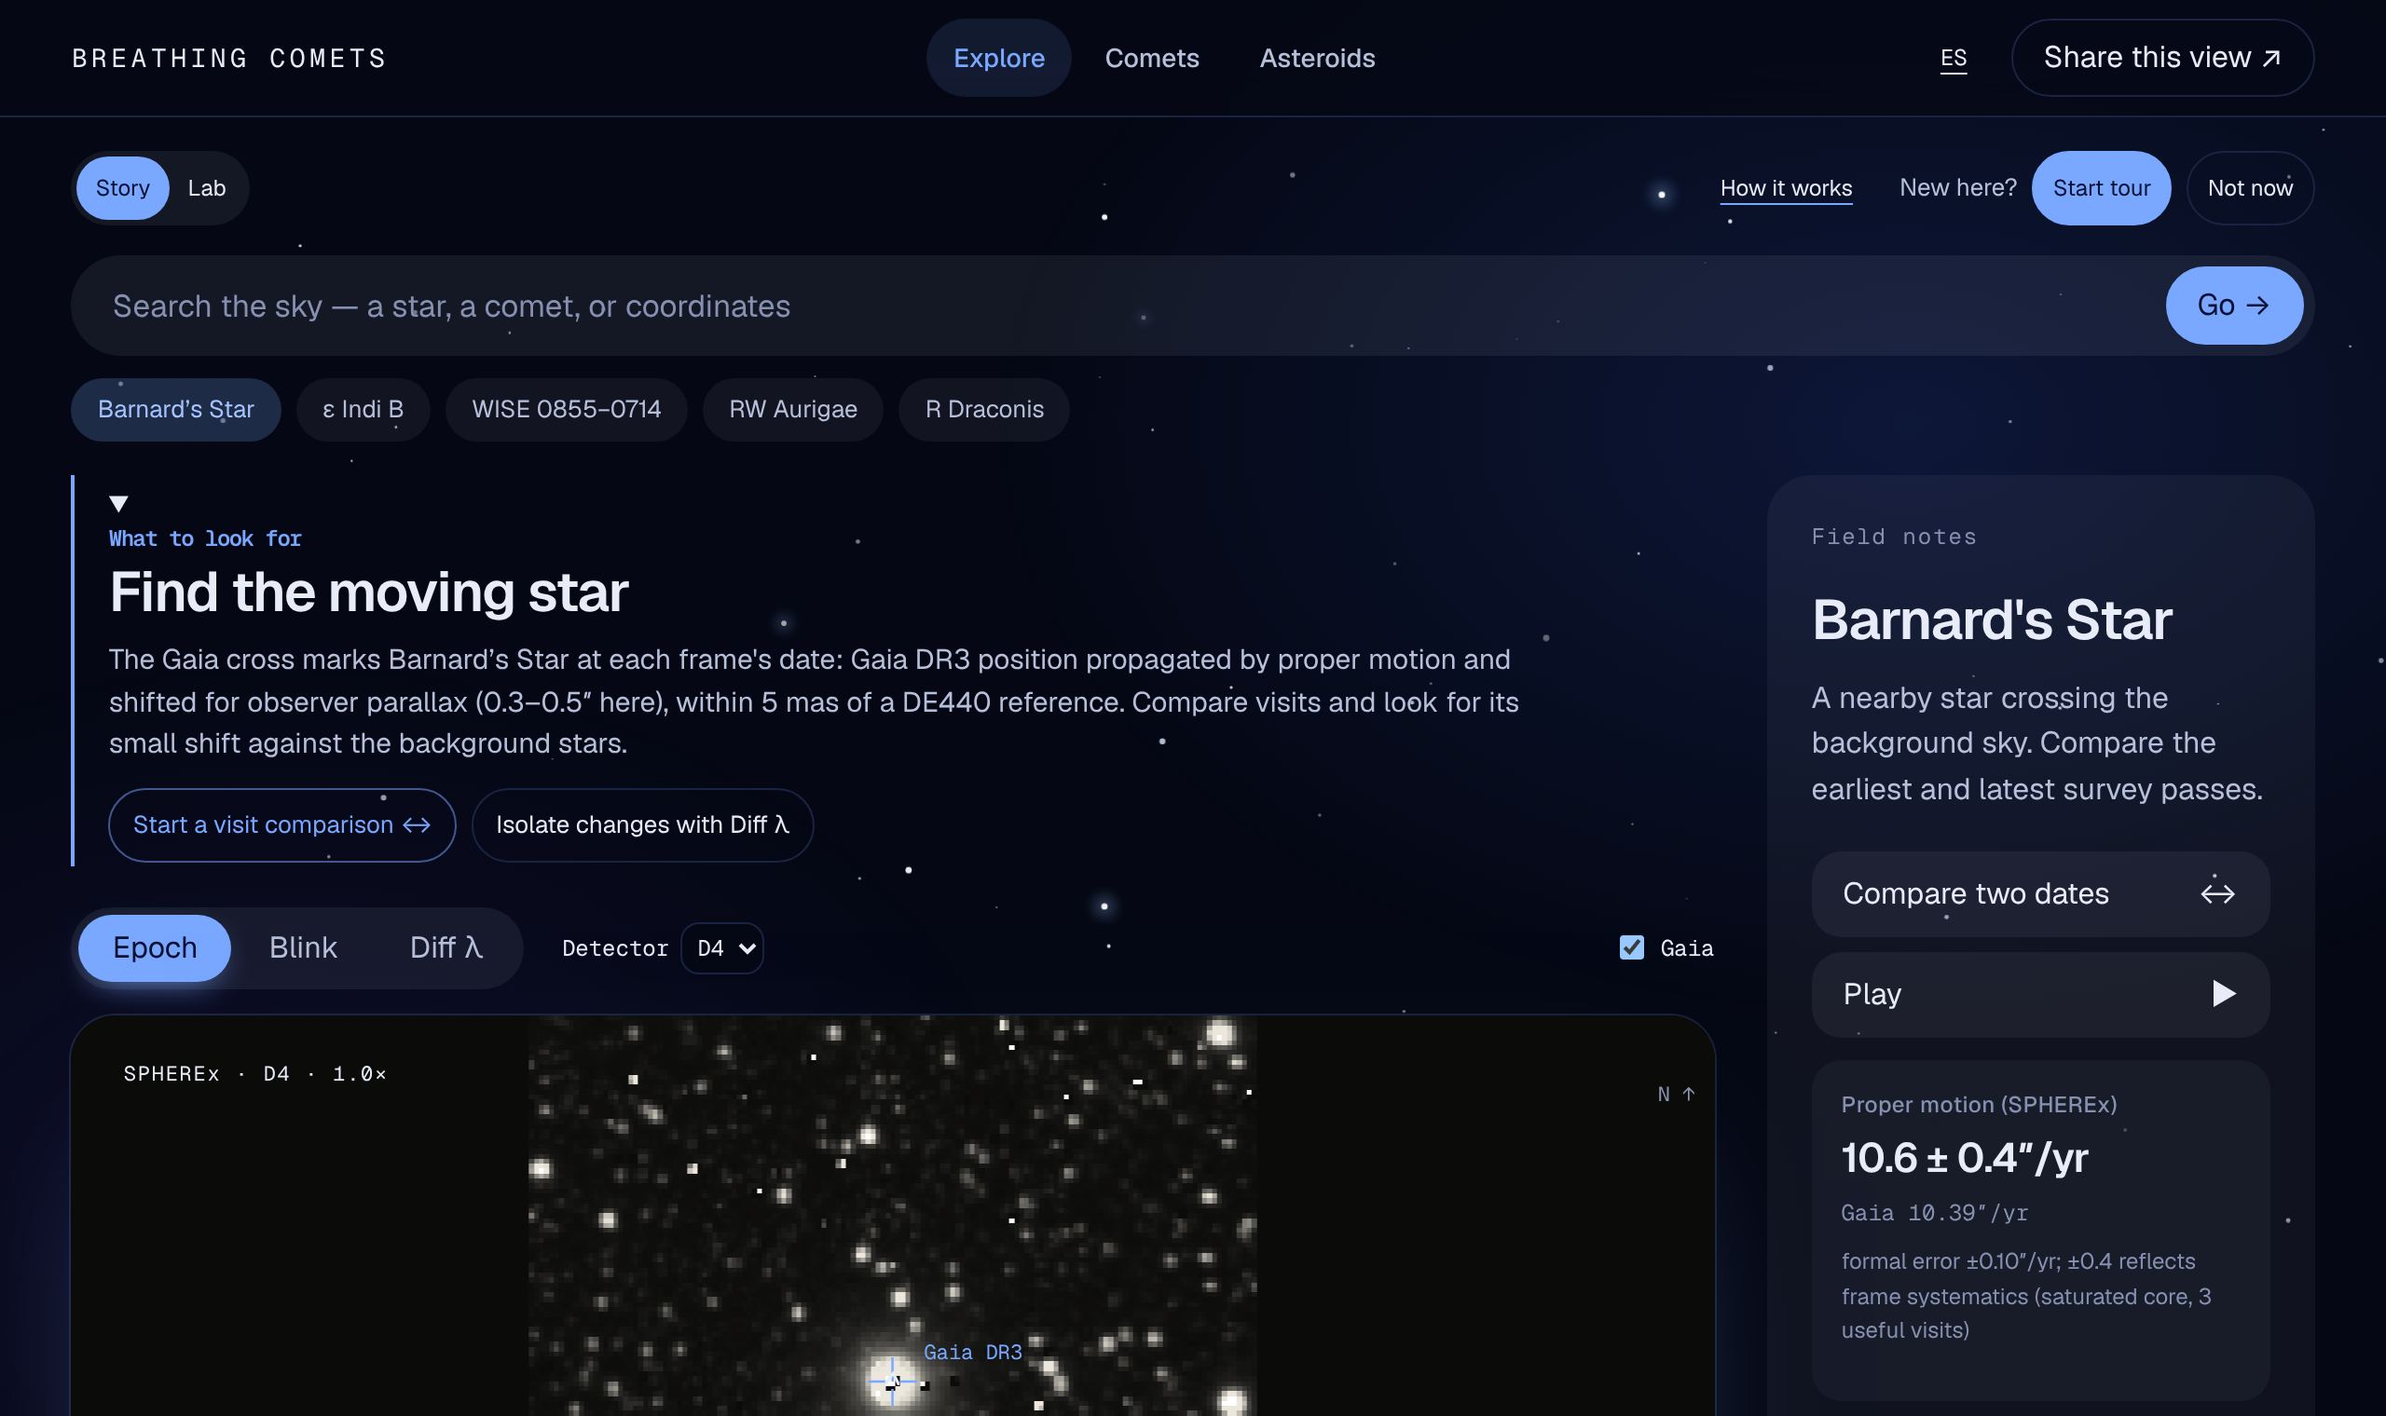
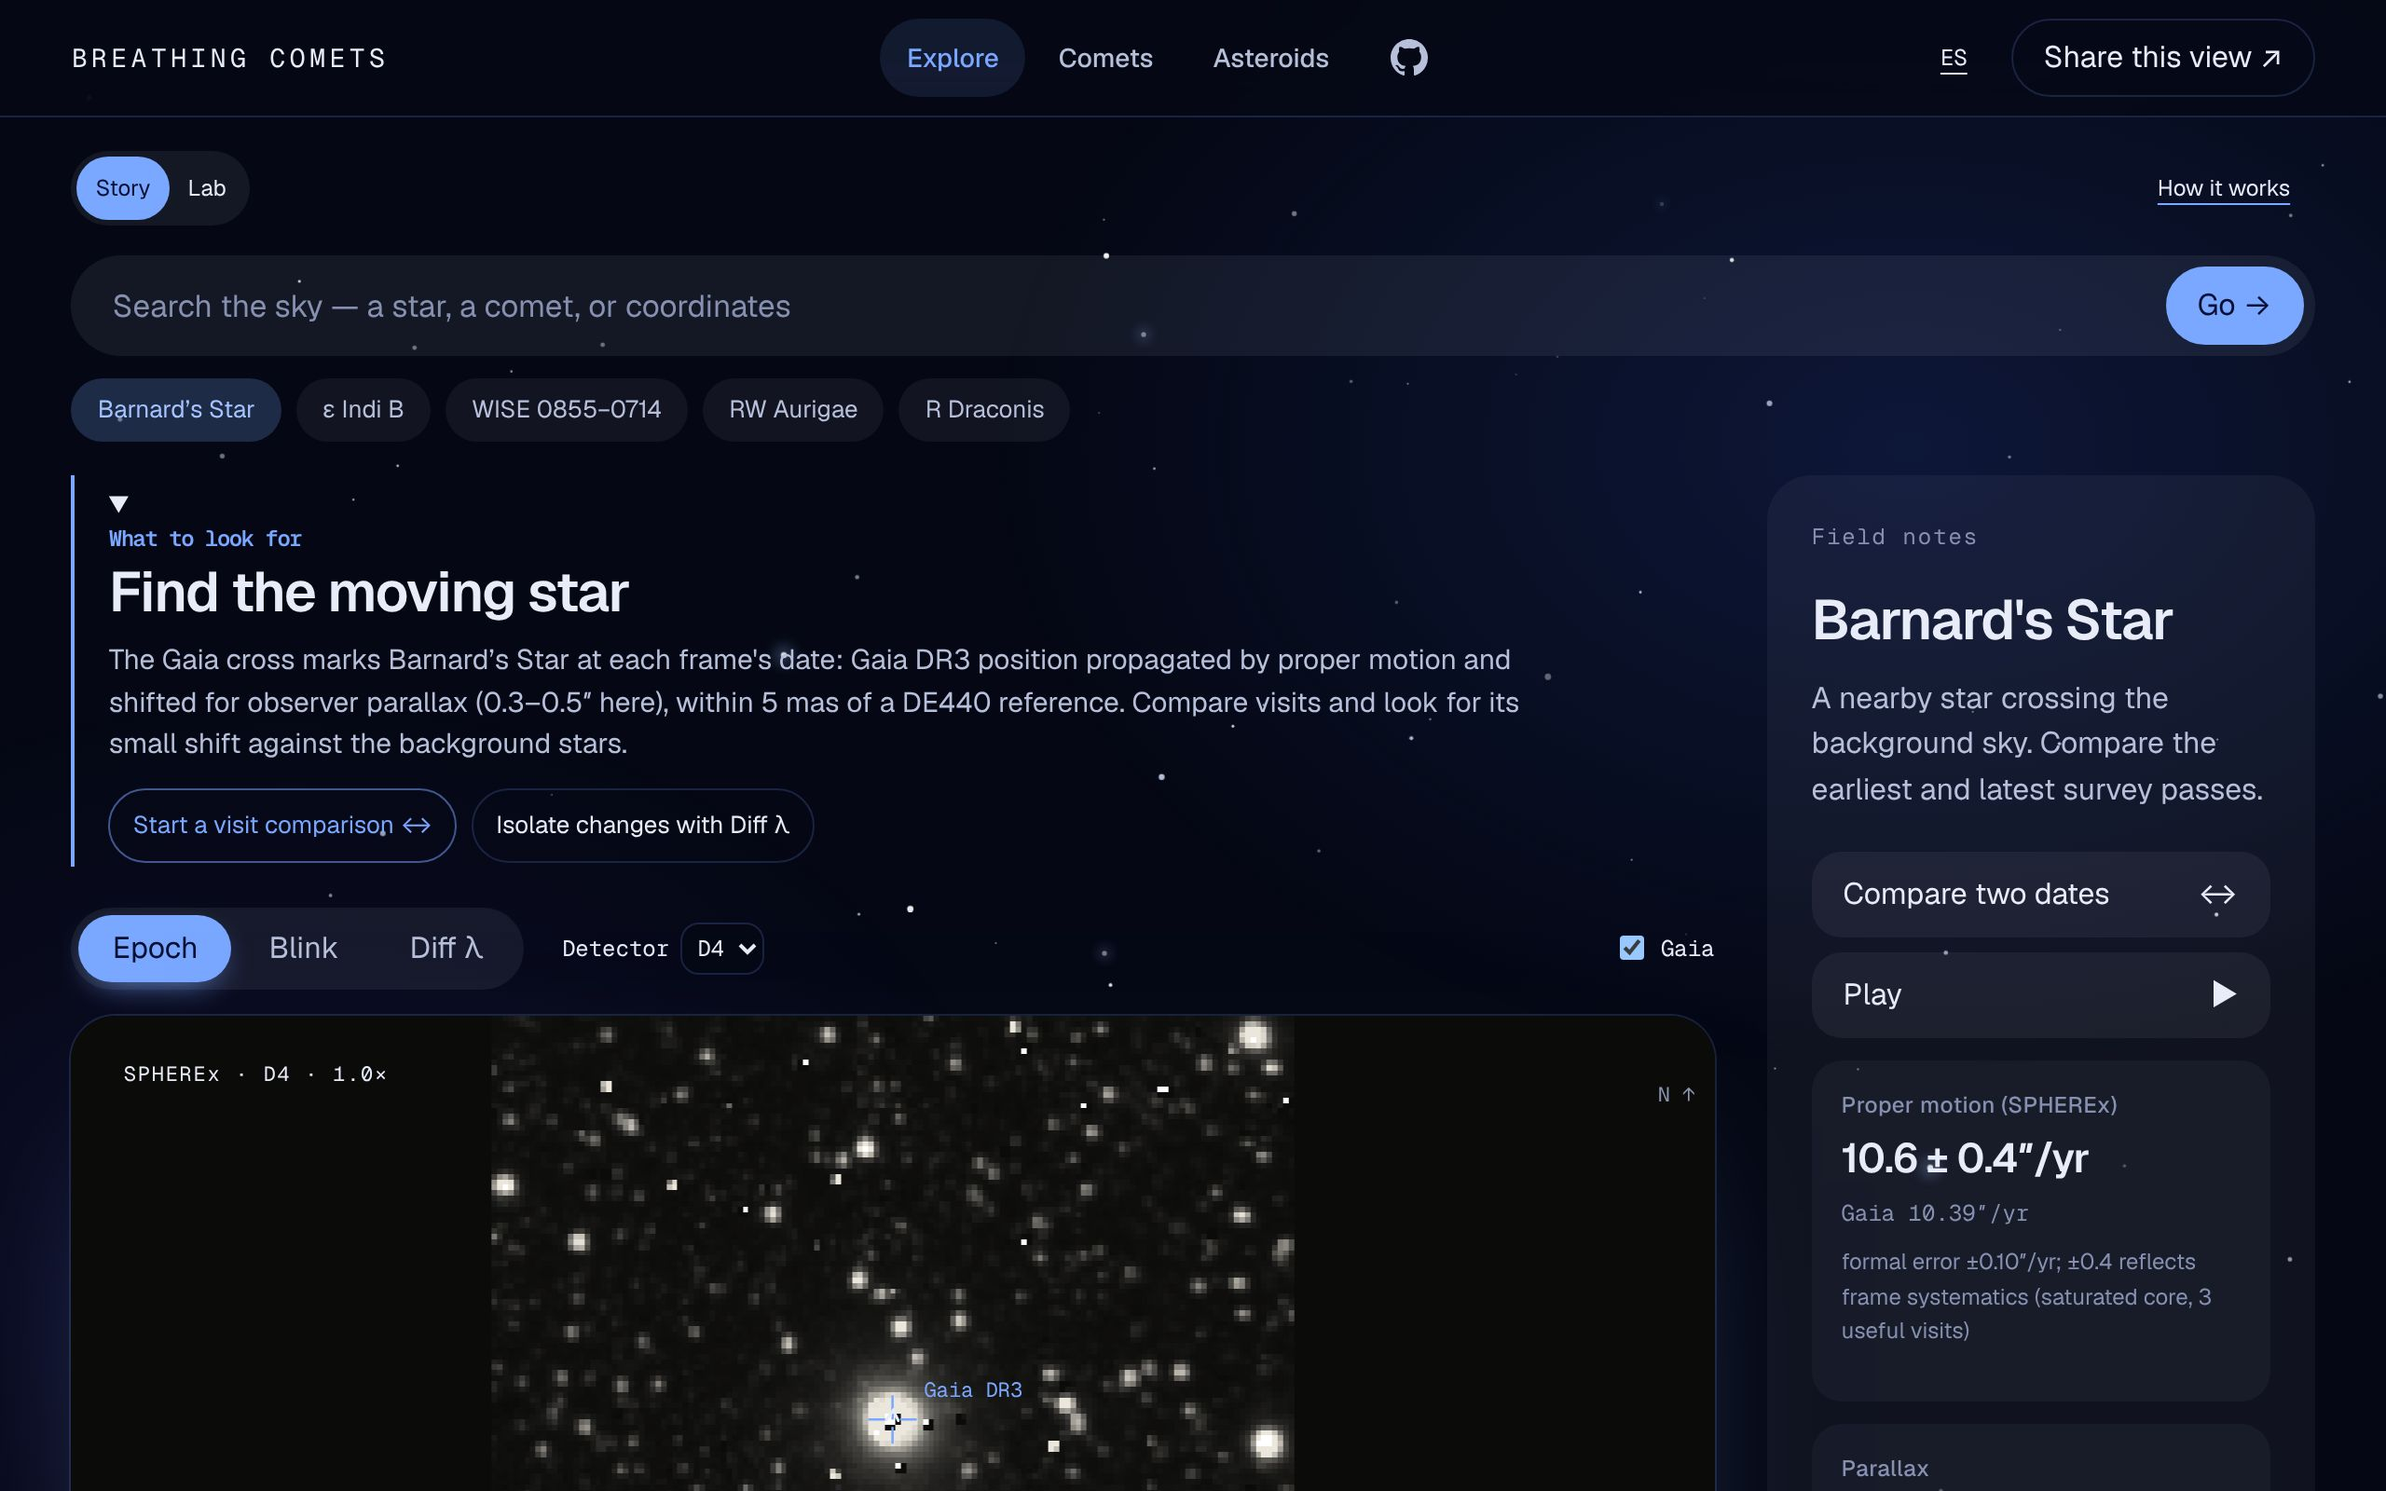
docs: Add a screenshot gallery to the README and record the legal pages verification

diff --git a/README.md b/README.md
@@ -1,31 +1,40 @@
-# Breathing Comets
+<h1 align="center">Breathing Comets</h1>
 
-**A public time machine for the SPHEREx infrared sky.** Play real exposures,
-blink two dates, subtract the sky at matched wavelengths and click any position
-for a measured spectrum. Then follow the same data to comets that exhale CO₂ and
-to near-Earth asteroids sized after NEOWISE. English and Spanish throughout.
+<p align="center"><b>A public time machine for the SPHEREx infrared sky.</b><br/>
+Play real exposures, blink two dates, subtract the sky at matched wavelengths and click any
+position for a measured spectrum. Then follow the same data to comets that exhale CO₂ and to
+near-Earth asteroids sized after NEOWISE. English and Spanish throughout.</p>
 
-NASA Space Apps Challenge 2026 · Challenge **“Planet X and SPHEREx”** (advanced) ·
-Team **Breathing Comets**, Duitama virtual site.
+<p align="center">
+  <a href="https://breathingcomets.org"><b>Open the live app →</b></a> ·
+  <a href="https://breathingcomets.org/es">Español</a> ·
+  <a href="https://youtu.be/HesQRt7UJUs">Demo video</a> ·
+  <a href="https://breathingcomets.org/method">Method</a>
+</p>
+
+<p align="center">NASA Space Apps Challenge 2026 · Challenge <b>“Planet X and SPHEREx”</b> (advanced) ·
+Team <b>Breathing Comets</b>, Duitama virtual site</p>
+
+<p align="center"><img src="docs/media/landing.jpg" alt="Landing page with real 3I/ATLAS SPHEREx frames in the hero" width="100%"/></p>
 
 | | |
 |---|---|
 | **Live application** | https://breathingcomets.org ([Español](https://breathingcomets.org/es)) |
+| **Demo video** | https://youtu.be/HesQRt7UJUs |
 | **Sky Explorer** | https://breathingcomets.org/explore?target=barnard |
 | **Comet atlas** | https://breathingcomets.org/comets |
 | **Small-Body Lab** | https://breathingcomets.org/neo |
 | **Method and limitations** | https://breathingcomets.org/method |
 | **Credits and sources** | https://breathingcomets.org/about |
+| **Terms of use · Privacy** | https://breathingcomets.org/terms · https://breathingcomets.org/privacy |
 | **Public API** | https://api.breathingcomets.org/v1/health |
-
-![Landing page: real 3I/ATLAS SPHEREx frames in the hero](docs/media/landing.jpg)
 
 ---
 
 ## Contents
 
 1. [The challenge and how we answer it](#1-the-challenge-and-how-we-answer-it)
-2. [What you can do](#2-what-you-can-do)
+2. [Tour of the app](#2-tour-of-the-app)
 3. [Results on the five challenge targets](#3-results-on-the-five-challenge-targets)
 4. [Comets and asteroids: the science extensions](#4-comets-and-asteroids-the-science-extensions)
 5. [How it works](#5-how-it-works)
@@ -49,7 +58,7 @@ something anyone can blink, compare and measure.
 
 | Requirement or optional goal | Where it lives in the product |
 |---|---|
-| Enter RA/Dec | Search bar accepts coordinates, star names (SIMBAD) and comet/asteroid designations (JPL) |
+| Enter RA/Dec | Search bar accepts decimal or sexagesimal coordinates and star names (SIMBAD); comet and asteroid designations (JPL) link to their tracked pages |
 | Show a region as a short video | Timeline with play/pause, visits grouped by date, north-up frames |
 | Spot moving objects | **Blink** A↔B, **Diff λ** matched-wavelength subtraction, Gaia DR3 marker propagated to each frame's epoch (proper motion + observer parallax) |
 | Five test targets | Barnard's Star, ε Indi B, WISE 0855−0714, RW Aurigae and R Draconis are precomputed for six detectors each, with guided field notes |
@@ -63,51 +72,86 @@ something anyone can blink, compare and measure.
 | C8 – Astropy and Aladin | Backend on Astropy + reproject; Aladin Lite 3.8.2 |
 | Molecules named in the challenge | Comet atlas measures CO₂ and CO band emission with full diagnostics |
 
-## 2. What you can do
+## 2. Tour of the app
 
-### Sky Explorer (`/explore`)
+All screenshots are of the deployed site and show real SPHEREx data.
 
-![Sky Explorer on Barnard's Star with the epoch-aware Gaia marker](docs/media/explorer.jpg)
+### Sky Explorer: see the sky change
 
-- **Story mode.** Pick a prepared target or search the sky. Each field explains
-  *what to look for* and offers a one-tap visit comparison or Diff λ.
-- **Epoch / Blink / Diff λ.** Play every exposure on a time ruler; blink the
-  longest baseline within one band width; subtract other visits at compatible
-  wavelengths. Every frame keeps its detector, wavelength, date, observation ID and
-  source.
-- **Lab mode.** Pixel and quality-flag inspector, link to the original FITS,
-  one-click forced-ePSF spectrum (≥ 50 points streamed as NDJSON) and a lazy-loaded
-  Aladin Lite viewer with the real DR1 spectral cube, Gaia and 2MASS layers.
-- **Share and embed.** “Share this view” serializes the exact observation; a fresh
-  browser restores it. Sharing is enabled only when the acquisition that matches
-  the requested field is complete.
-- **Works offline from the API.** The five prepared targets and the tracked comet
-  plates ship as static SPXF packages and keep working if the live API is down
-  (covered by an E2E test that blocks the API).
+<table>
+<tr>
+<td width="50%"><img src="docs/media/explorer.jpg" alt="Sky Explorer on Barnard's Star with field notes and the epoch-aware Gaia marker"/><br/>
+<b>Story mode.</b> Pick a challenge target or search any star, name or RA/Dec. Each field says
+<i>what to look for</i>; the Gaia DR3 cross follows the star at every frame's date (proper motion
++ observer parallax).</td>
+<td width="50%"><img src="docs/media/blink.jpg" alt="Blink comparison of Barnard's Star between 2025-08-27 and 2026-09-02, magnified"/><br/>
+<b>Blink two dates.</b> One tap compares the longest baseline within one band width
+(here 2025-08-27 ↔ 2026-09-02, magnified 7×). Barnard's Star visibly leaves its Gaia
+position.</td>
+</tr>
+<tr>
+<td width="50%"><img src="docs/media/diff.jpg" alt="Diff lambda: wavelength-matched difference image of Barnard's Star"/><br/>
+<b>Diff λ.</b> Each frame minus a static-sky reference built from other visits at the same
+wavelength: what moved shows up yellow where it is and blue where it was.</td>
+<td width="50%"><img src="docs/media/spectrum.jpg" alt="Live forced-ePSF spectrum streamed after a click, next to the deblended reference spectrum"/><br/>
+<b>Click for a spectrum.</b> A forced-ePSF spectrum streams point by point from every
+covering exposure (0.75–5.0 µm), beside the deblended reference spectrum of the target.</td>
+</tr>
+</table>
+
+- **Epoch / Blink / Diff λ / Cube.** Play every exposure on a time ruler; every frame keeps its
+  detector, wavelength, date, observation ID and source.
+- **Lab mode.** Pixel and quality-flag inspector, link to the original FITS file and a
+  lazy-loaded Aladin Lite viewer with the real DR1 spectral cube, Gaia and 2MASS layers.
+- **Share and embed.** “Share this view” copies the exact observation; `/embed` serves it.
+- **Moving objects.** Searching a comet or asteroid explains why a fixed field cannot follow it
+  and links to its tracked comet page, the atlas or the Small-Body Lab.
+- **Works when the API is down.** The five targets and the tracked comet plates ship as static
+  SPXF packages (covered by an E2E test that blocks the API).
 - **Guided tour** offered, never forced; keyboard-operable; English and Spanish.
 
-### Comet atlas (`/comets`) and detail pages
+### Comets that breathe CO₂
 
-![3I/ATLAS detail page with real tracked SPHEREx frames](docs/media/comet-3i.jpg)
+<table>
+<tr>
+<td width="50%"><img src="docs/media/comets.jpg" alt="Comet atlas: Q(CO2) against heliocentric distance for 20 comets"/><br/>
+<b>Comet atlas.</b> Q(CO₂) for 20 comets with 16–84 % intervals; detections, measurements
+with systematics, marginal and unreliable cases are drawn differently.</td>
+<td width="50%"><img src="docs/media/comet-spectrum.jpg" alt="3I/ATLAS spectrum around the CO2 band, compared with published values"/><br/>
+<b>3I/ATLAS.</b> Sky-subtracted spectrum around the 4.26 µm CO₂ band, compared with the
+published values and with full provenance.</td>
+</tr>
+<tr>
+<td width="50%"><img src="docs/media/comet-3i.jpg" alt="3I/ATLAS detail page with real tracked SPHEREx frames"/><br/>
+<b>Tracked plates.</b> Real SPHEREx frames centred on the comet with the JPL Horizons
+ephemeris for SPHEREx as observer; a band image is never called a gas map.</td>
+<td width="50%"><img src="docs/media/neo.jpg" alt="Small-Body Lab: diameter versus absolute magnitude and the NEOWISE cross-validation plot"/><br/>
+<b>Small-Body Lab.</b> 34 thermal sizes for near-Earth asteroids after NEOWISE, each with
+its interval, evidence tier and ±35 % systematic floor, checked against 50 NEOWISE objects.</td>
+</tr>
+</table>
 
-20 comets with CO₂/CO band measurements, each with its status (detection,
-measurement with systematics, marginal), 16–84 % interval, S/N, fractional flux
-error, number of band-core channels and reduced χ². Detail pages for **3I/ATLAS**
-and **29P/Schwassmann–Wachmann** show real Horizons-tracked plates ordered by
-wavelength, measured spectra, diagnostics and provenance.
+### On a phone, in two languages
 
-### Small-Body Lab (`/neo`)
+<table>
+<tr>
+<td width="25%"><img src="docs/media/mobile-explorer.jpg" alt="Explorer on a phone"/></td>
+<td width="25%"><img src="docs/media/mobile-comet.jpg" alt="3I/ATLAS page on a phone"/></td>
+<td width="25%"><img src="docs/media/mobile-neo.jpg" alt="Small-Body Lab on a phone"/></td>
+<td width="25%"><img src="docs/media/landing-es.jpg" alt="Spanish landing page"/></td>
+</tr>
+<tr>
+<td align="center">Explorer</td><td align="center">3I/ATLAS</td><td align="center">Small-Body Lab</td><td align="center">Español</td>
+</tr>
+</table>
 
-![Small-Body Lab: D versus H and the NEOWISE cross-validation plot](docs/media/neo.jpg)
+### Method, credits and legal pages
 
-Thermal-size estimates for near-Earth asteroids discovered after NEOWISE ended,
-each with its interval, evidence tier, ±35 % systematic floor and single-visit
-warning, plus a D-versus-H chart and the full NEOWISE cross-validation plot.
-
-### Method (`/method`) and About (`/about`)
-
-Ten data-driven method sections (every table is read from the shipped JSON),
-explicit limitations, full source credits, and a statement on AI use.
+Ten data-driven method sections (every table is read from the shipped JSON), explicit
+limitations, full source credits, a statement on AI use, and plain-language
+[Terms of use](https://breathingcomets.org/terms) and
+[Privacy notice](https://breathingcomets.org/privacy) in English and Spanish: no
+accounts, no cookies, no analytics; independent project, not endorsed by NASA or any agency.
 
 ## 3. Results on the five challenge targets
 
@@ -191,7 +235,7 @@ Nothing is counted as passing unless it was observed. Raw outputs are retained i
 
 | Check | Result | When |
 |---|---|---|
-| Production browser suite (Playwright, Chromium, 14 spec files) | **70 / 70 passed** (2.7 min) against https://breathingcomets.org | Re-run 2026-11-15 |
+| Production browser suite (Playwright, Chromium, 14 spec files) | **73 / 73 passed** against https://breathingcomets.org | Re-run 2026-11-15 |
 | Python acceptance (offline) | **202 passed, 1 known failure** (R Dra D6 baseline, see §7), 9 network tests deselected | Re-run 2026-11-15 |
 | Python real-network suite (S3, IRSA, Horizons) | 9 / 9 passed | Recorded in STATUS.md |
 | Frontend unit tests (Vitest) | **58 / 58 passed** (incl. parallax vs Astropy/DE440, ≤ 4.67 mas) | Re-run 2026-11-15 |
@@ -289,7 +333,9 @@ docs/                BUILD guide, STATUS log, FINDINGS, audits, verification out
 
 Sky plates are real mission data; the interface's decorative starfield is separate
 and never presented as an observation. This is an independent Space Apps project,
-not a NASA product, and uses no NASA logo.
+not a NASA product, and uses no NASA or agency logo anywhere. See the
+[Terms of use](https://breathingcomets.org/terms) and
+[Privacy notice](https://breathingcomets.org/privacy).
 
 **Use of AI.** AI-assisted tools were used for software implementation, debugging,
 documentation and test preparation. Scientific statements are tied to retained

diff --git a/docs/STATUS.md b/docs/STATUS.md
@@ -438,3 +438,17 @@ Weighted total **75%** of the planned build (72.2 / 96); **83%** counting only t
 - New `e2e/polish.spec.ts` (5 tests). Local: 69 passed, 1 skipped (404 needs Pages).
   **Production: 70 passed (2.7m)**, raw output `docs/verification/polish-production-e2e.txt`.
   Type check 0/0, Vitest 58 passed, build passed. No scientific values changed.
+
+## Legal pages, GitHub link and README gallery (2026-11-15)
+
+- Added `/terms` and `/privacy` (EN/ES, prerendered) from `src/lib/data/legal.ts`: independence
+  and no endorsement, no agency logos, no safety-critical use, no warranty, data licences and
+  credits, acceptable use, limitation of liability; privacy states no accounts, cookies or
+  analytics, the single `bc.tour.v1` local-storage key, hosting logs (Cloudflare, Fly.io) and the
+  services contacted. Every footer links both pages with an independence line.
+- Added an accessible GitHub icon link to the shared product navigation (every page header).
+- E2E tests added for the legal pages, footer links, GitHub link and absence of NASA logo images.
+  Commit 40a34c4. **Production: 73 passed (2.8m)**, raw output
+  `docs/verification/legal-production-e2e.txt`. These pages are general information written for
+  the project, not legal advice.
+- README now has a screenshot gallery from production (`docs/media/`).
